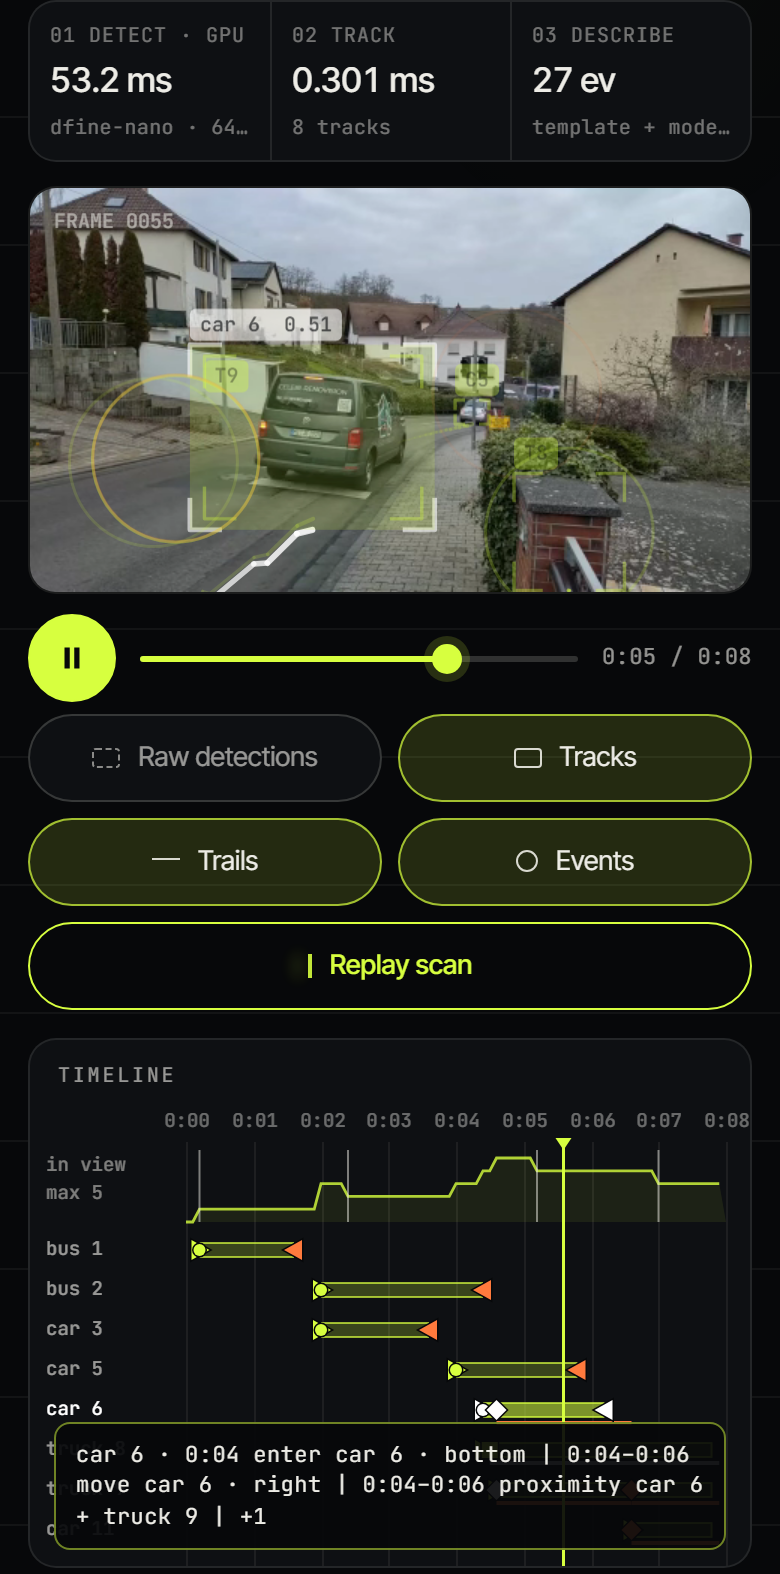
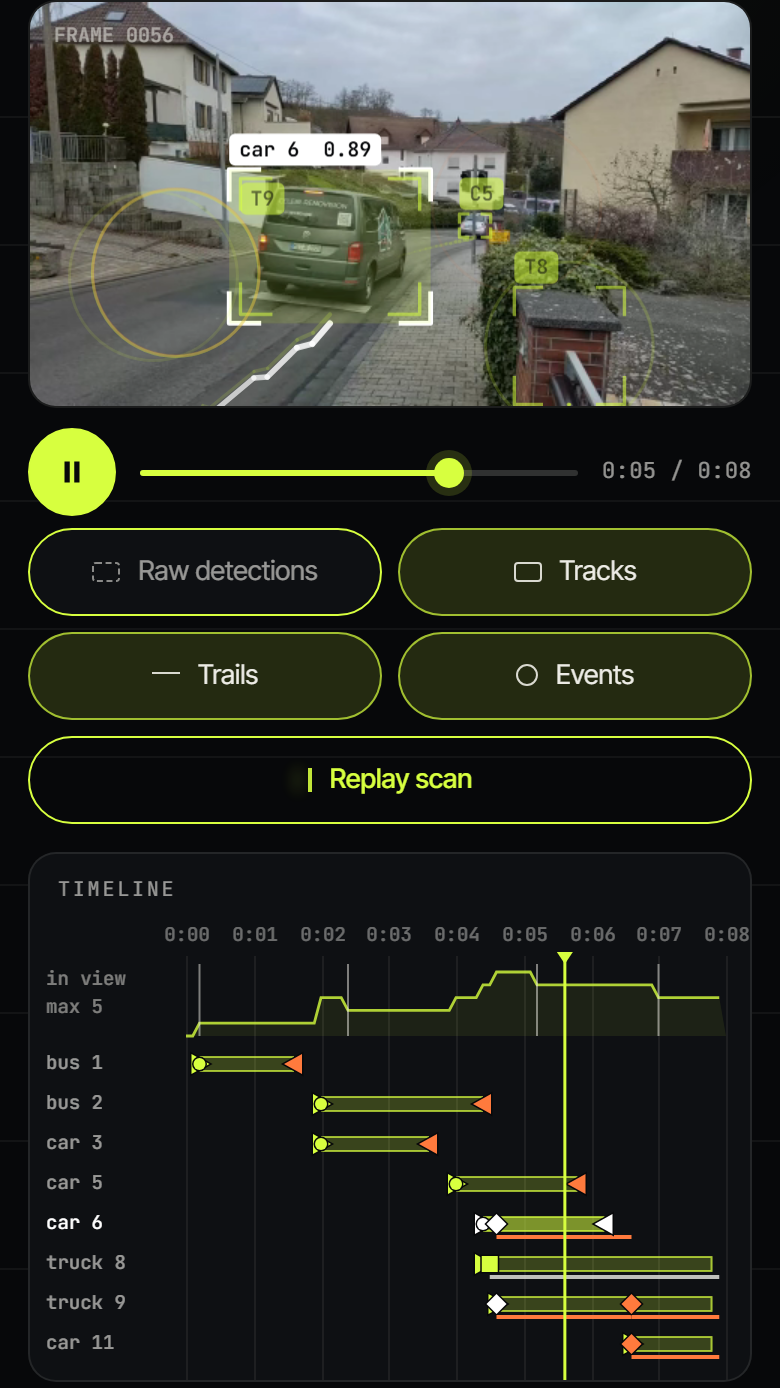
Tooltip lists one event per line and is opaque; re-shoot the selected-track phone screenshot without the tooltip, ending at the timeline card

diff --git a/docs/css/style.css b/docs/css/style.css
@@ -214,7 +214,7 @@ h1 em { font-family: var(--serif); font-weight: 400; font-style: italic; color: 
 .tl-head .dim { letter-spacing: 0.04em; text-align: right; }
 .timeline { position: relative; max-height: 230px; overflow-y: auto; overflow-x: hidden; overscroll-behavior: contain; touch-action: pan-y; -webkit-overflow-scrolling: touch; }
 .timeline canvas { display: block; width: 100%; }
-.tl-tip { position: absolute; z-index: 3; line-height: 1.4; left: 12px; right: 12px; bottom: 8px; padding: 8px 10px; font-size: 11px; background: rgba(7, 8, 10, 0.92); border: 1px solid rgba(215, 255, 63, 0.5); border-radius: 8px; }
+.tl-tip { position: absolute; z-index: 3; line-height: 1.4; left: 12px; right: 12px; bottom: 8px; padding: 8px 10px; font-size: 11px; background: #07080a; border: 1px solid rgba(215, 255, 63, 0.5); border-radius: 8px; white-space: pre-line; }
 .tl-tip[hidden] { display: none; }
 
 /* cards */

diff --git a/docs/js/main.js b/docs/js/main.js
@@ -343,7 +343,7 @@ function selectTrack(id) {
   timeline.select({ id: null, ids: [id], eventIds: evs.map((e) => e.id) });
   desc.highlight(evs.map((e) => e.id));
   const shown = evs.filter((e) => e.kind !== 'count_change').slice(0, 3).map(describeEvent);
-  tip.textContent = `${cls} ${id}${shown.length ? ' · ' + shown.join(' | ') : ' · no events'}${evs.length > 3 ? ` | +${evs.length - 3}` : ''}`;
+  tip.textContent = [`${cls} ${id}${shown.length ? '' : ' · no events'}`, ...shown, ...(evs.length > 3 ? [`+${evs.length - 3} more`] : [])].join('\n');
   tip.hidden = false;
   state.lastT = -1;
 }

diff --git a/scripts/screenshots.py b/scripts/screenshots.py
@@ -119,7 +119,9 @@ def phone_shots(browser, out: Path) -> None:
     page.click("#bigplay")
     page.wait_for_timeout(4500)
     pick_track(page)
-    clip = card_clip(page, "#strip", "#timeline", 390, 844)
+    # the selection (highlighted box, bold timeline row) is the subject; the tooltip is closed so it covers no rows
+    page.evaluate("document.querySelector('#tl-tip').hidden = true")
+    clip = card_clip(page, "#stage", "#timeline", 390, 844)
     page.screenshot(path=str(out / "phone-selected-track.png"), clip=clip)
     ctx.close()
     if errors:
